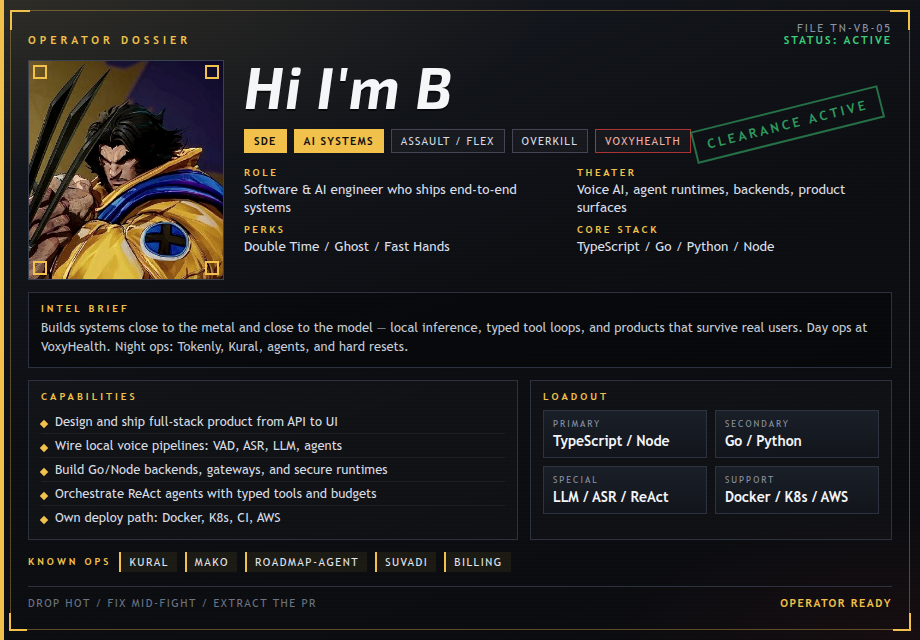
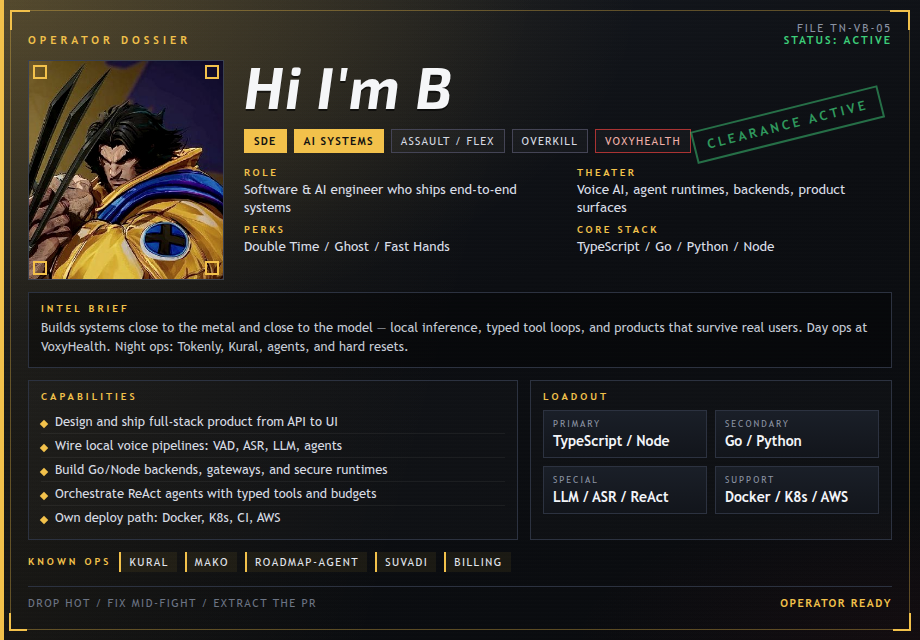
Extend gold fade across half the dossier card

Changed region(s): [[0.0, 0.0, 0.3348, 0.4062]]

diff --git a/dossier.html b/dossier.html
@@ -14,8 +14,9 @@
     width: 920px; min-height: 640px; position: relative; overflow: visible;
     display: flex; flex-direction: column;
     background:
-      radial-gradient(1000px 320px at 0% 0%, rgba(242,193,75,.10), transparent 55%),
-      radial-gradient(700px 280px at 100% 100%, rgba(180,40,40,.08), transparent 50%),
+      radial-gradient(120% 90% at 0% 0%, rgba(242,193,75,.22) 0%, rgba(242,193,75,.10) 32%, rgba(242,193,75,.03) 48%, transparent 58%),
+      linear-gradient(105deg, rgba(242,193,75,.08) 0%, transparent 50%),
+      radial-gradient(700px 280px at 100% 100%, rgba(180,40,40,.06), transparent 50%),
       linear-gradient(160deg, #171b22 0%, #0c0e12 48%, #090b0e 100%);
     color: #e8eaef;
     font-family: "Trebuchet MS", "Segoe UI", Helvetica, Arial, sans-serif;
